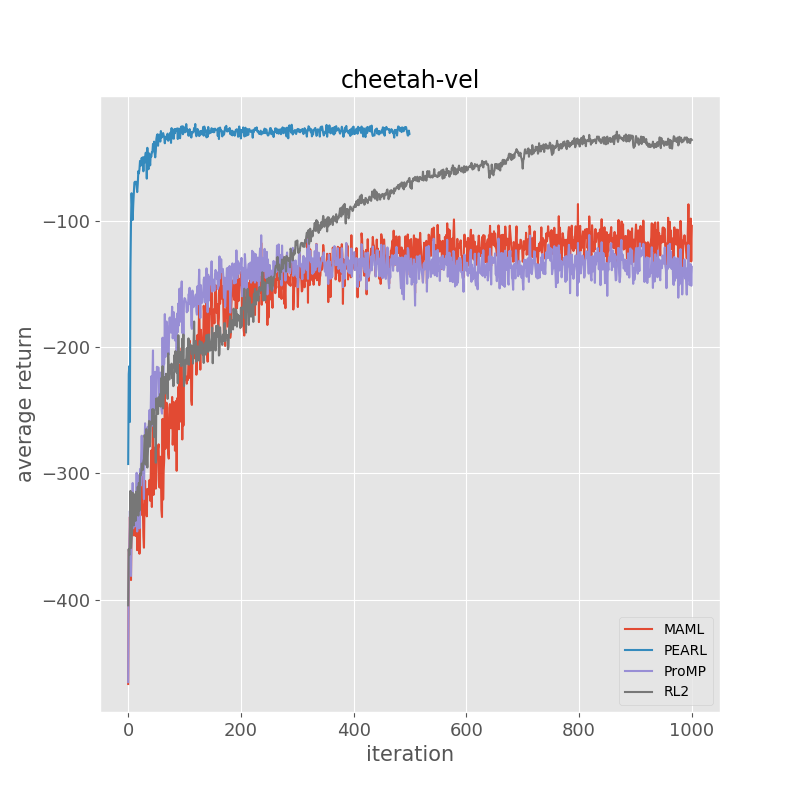
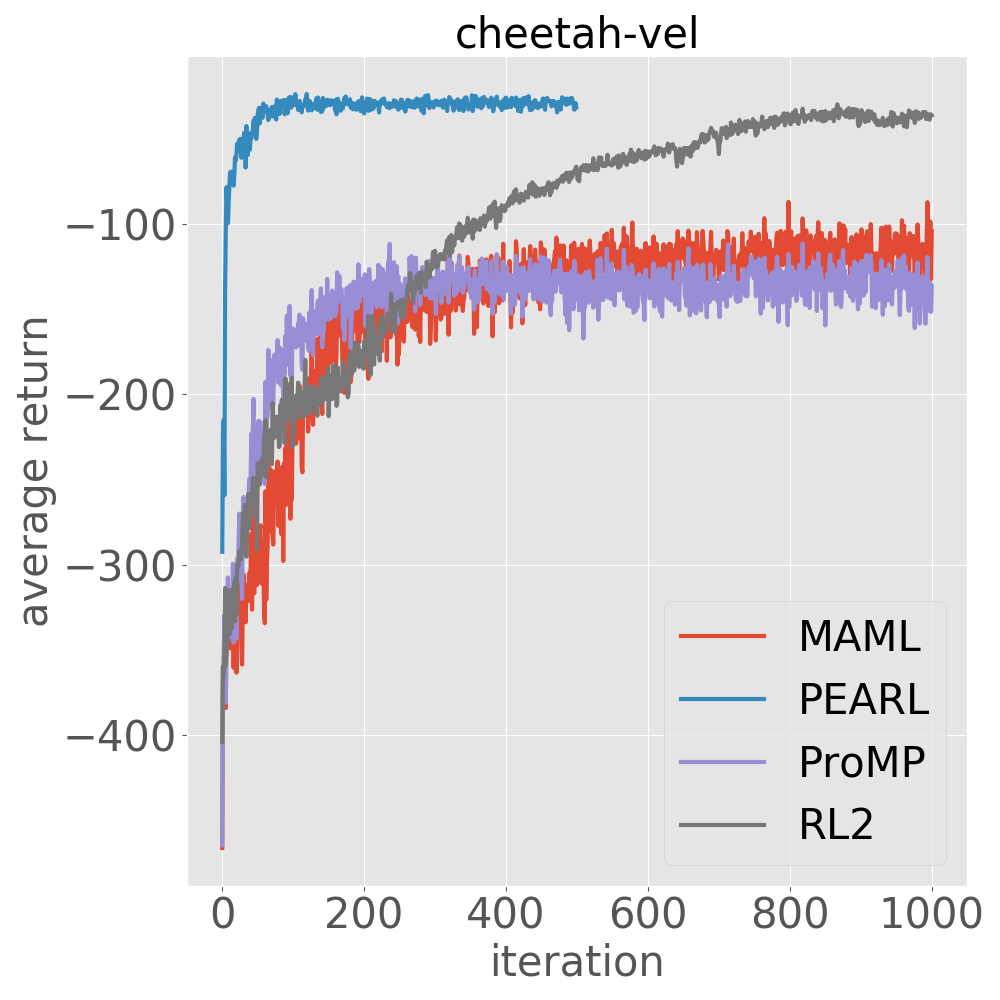
eval

diff --git a/scripts/plot.py b/scripts/plot.py
@@ -7,17 +7,20 @@ from collections import defaultdict
 
 
 def plot_one(exp_names, csv_slices, feature, env_name, re_feature):
-    fig = plt.figure(figsize=(8, 8))
+    fig = plt.figure(figsize=(10, 10))
+    ax = fig.add_subplot(111)
     fig.canvas.set_window_title(feature)
     for i, csv_slice in enumerate(csv_slices):
-        plt.plot(csv_slice[re_feature[i]].to_numpy())
-    plt.legend(exp_names)
-    plt.title(env_name, fontsize=17)
-    plt.xlabel("iteration", fontsize=15)
-    plt.xticks(fontsize=13)
+        plt.plot(csv_slice[re_feature[i]].to_numpy(), linewidth=3)
+        ax.yaxis.get_offset_text().set_fontsize(30)
+    plt.legend(exp_names, fontsize=30, fancybox=True)
+    plt.title(env_name, fontsize=30)
+    plt.xlabel("iteration", fontsize=30)
+    plt.xticks(fontsize=30)
     # plt.ylabel(feature, fontsize=15)
-    plt.ylabel('average return', fontsize=15)
-    plt.yticks(fontsize=13)
+    plt.ylabel('average return', fontsize=30)
+    plt.yticks(fontsize=30)
+    plt.tight_layout()
 
 
 def plot_data(args):
